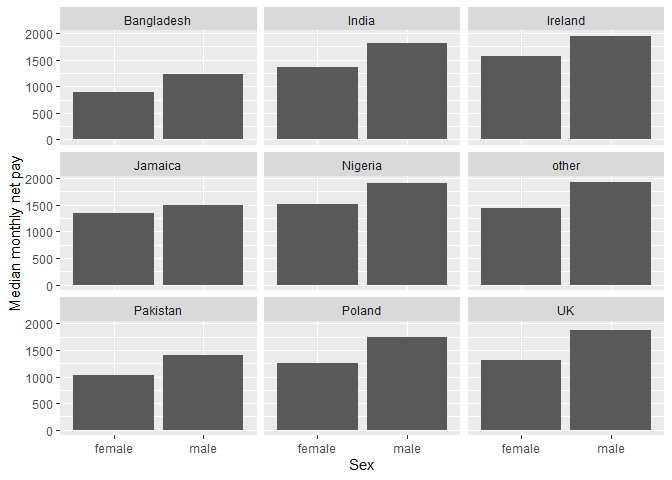
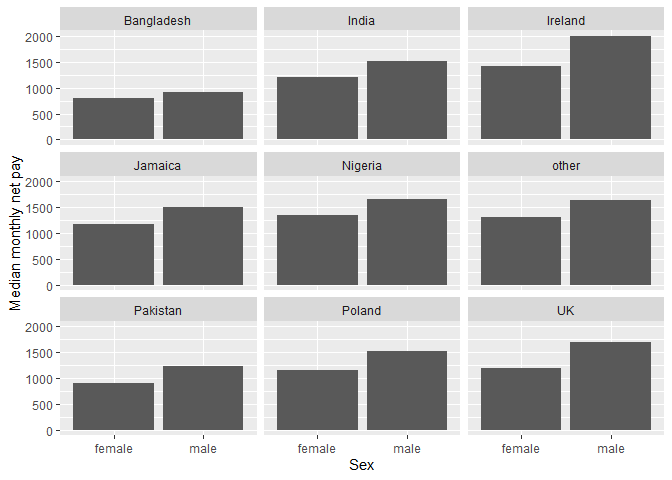
Fixing graphs

diff --git a/assignment4.md b/assignment4.md
@@ -97,8 +97,8 @@ are likely to peak for individuals during their 40s.
     Data %>%
      filter(!is.na(h_payn_dv), !is.na(placeBorn), !is.na(sex_dv)) %>%
      group_by(placeBorn, sex_dv) %>%
-     summarise(meanPAY = mean(h_payn_dv, na.rm = TRUE)) %>%
-     ggplot(aes(x = sex_dv, y = meanPAY)) +
+     summarise(medianPAY = median(h_payn_dv, na.rm = TRUE)) %>%
+     ggplot(aes(x = sex_dv, y = medianPAY)) +
      geom_bar(stat = "identity") +
      facet_wrap(~ placeBorn, nrow = 3) +
      labs(x = "Sex", y = "Median monthly net pay")
@@ -108,8 +108,8 @@ are likely to peak for individuals during their 40s.
 
 Interpretation: These charts again suggest that regardless of place of
 birth, males have a higher median monthly net pay than females. They
-also demonstrate that Ireland has the highest median monthly net pay
-whilst Pakistan have the lowest.
+also demonstrate that Irish born have the highest median monthly net pay
+whilst Bangladeshi born have the lowest.
 
 4.  Heat map (20 points)
     
